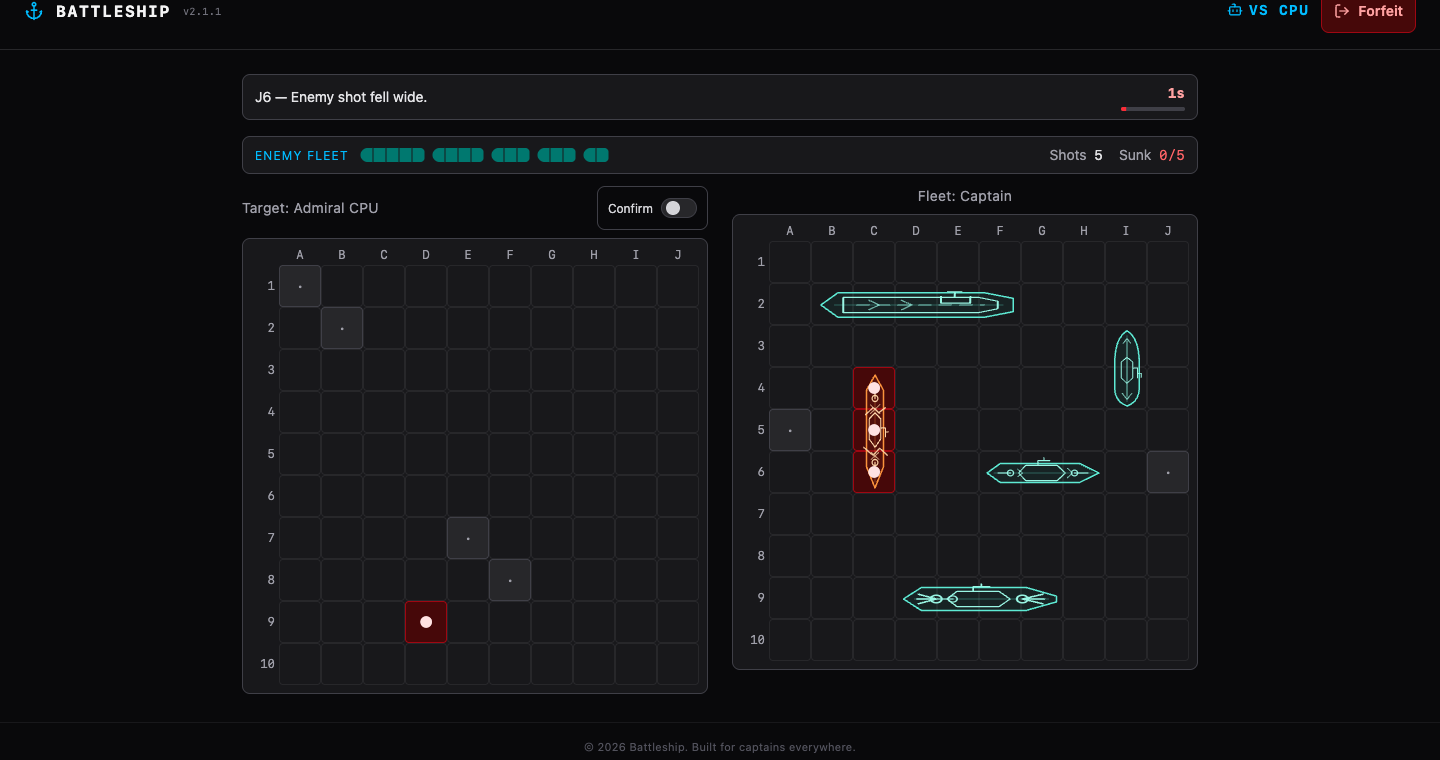
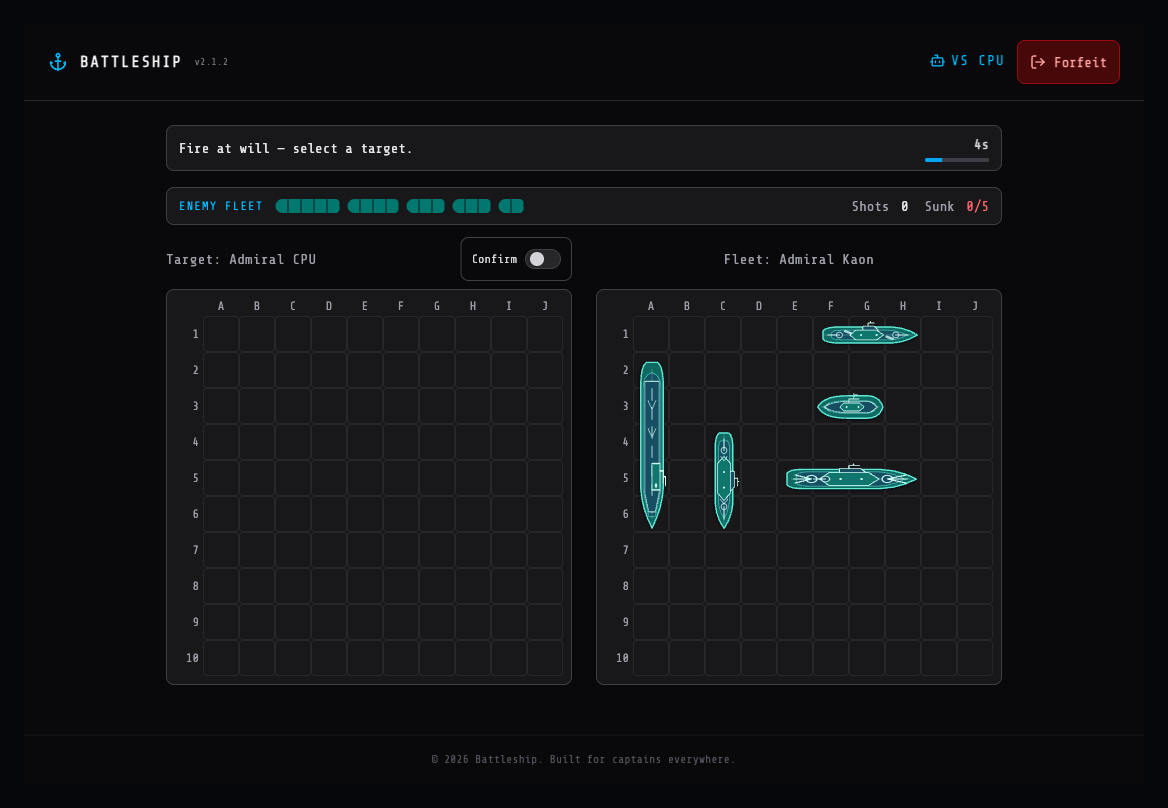
feat: refine fleet visuals for v2.1.2

diff --git a/src/components/ShipArtwork.tsx b/src/components/ShipArtwork.tsx
@@ -12,12 +12,19 @@ interface ShipArtworkProps {
   style?: CSSProperties
 }
 
-const PALETTES: Record<ShipVisualState, { line: string; surface: string; detail: string }> = {
-  afloat: { line: '#5eead4', surface: '#134e4a', detail: '#99f6e4' },
-  damaged: { line: '#fb7185', surface: '#7f1d1d', detail: '#fecdd3' },
-  sunk: { line: '#fb923c', surface: '#7c2d12', detail: '#fed7aa' },
-  preview: { line: '#67e8f9', surface: '#155e75', detail: '#cffafe' },
-  invalid: { line: '#f87171', surface: '#991b1b', detail: '#fee2e2' },
+interface ShipPalette {
+  line: string
+  hull: string
+  deck: string
+  detail: string
+}
+
+const PALETTES: Record<ShipVisualState, ShipPalette> = {
+  afloat: { line: '#5eead4', hull: '#0f766e', deck: '#164e63', detail: '#ccfbf1' },
+  damaged: { line: '#fb7185', hull: '#9f1239', deck: '#7f1d1d', detail: '#ffe4e6' },
+  sunk: { line: '#fb923c', hull: '#9a3412', deck: '#7c2d12', detail: '#ffedd5' },
+  preview: { line: '#67e8f9', hull: '#0e7490', deck: '#155e75', detail: '#cffafe' },
+  invalid: { line: '#f87171', hull: '#b91c1c', deck: '#7f1d1d', detail: '#fee2e2' },
 }
 
 const LINE_PROPS = {
@@ -27,32 +34,44 @@ const LINE_PROPS = {
 }
 
 function hullPath(shipId: string): string {
-  if (shipId === 'carrier') return 'M4 20 14 7H99L116 13V27L99 33H14Z'
-  if (shipId === 'battleship') return 'M4 20 17 8H94L116 17V23L94 32H17Z'
-  if (shipId === 'cruiser') return 'M5 20 18 10H96L115 20 96 30H18Z'
-  if (shipId === 'destroyer') return 'M5 20 20 11H95L116 20 95 29H20Z'
-  return 'M4 20C13 10 31 7 56 7h34c14 0 23 5 27 13-4 8-13 13-27 13H56C31 33 13 30 4 20Z'
+  if (shipId === 'carrier') return 'M5 13Q7 7 18 6h73q13 1 27 14-14 13-27 14H18Q7 33 5 27Z'
+  if (shipId === 'battleship') return 'M6 13Q8 8 19 8h67q17 1 31 12-14 11-31 12H19Q8 32 6 27Z'
+  if (shipId === 'cruiser') return 'M7 14q2-4 13-5h68q16 1 29 11-13 10-29 11H20Q9 30 7 26Z'
+  if (shipId === 'destroyer') return 'M8 15q2-4 14-5h66q16 1 29 10-13 9-29 10H22q-12-1-14-5Z'
+  return 'M3 20C12 9 31 6 56 6h35c15 0 24 6 27 14-3 8-12 14-27 14H56C31 34 12 31 3 20Z'
 }
 
-function ShipDetails({ shipId, color }: { shipId: string; color: string }) {
+function deckPath(shipId: string): string {
+  if (shipId === 'carrier') return 'M12 20Q14 9 22 9h70l18 7v8l-18 7H22q-8 0-10-11Z'
+  if (shipId === 'battleship') return 'M14 15q2-4 11-4h59q13 1 23 9-10 8-23 9H25q-9 0-11-4Z'
+  if (shipId === 'cruiser') return 'M16 16q2-3 11-3h57q12 1 21 7-9 7-21 7H27q-9 0-11-3Z'
+  if (shipId === 'destroyer') return 'M18 17q2-3 11-3h55q12 1 21 6-9 6-21 6H29q-9 0-11-3Z'
+  return 'M13 20c9-6 24-8 43-8h33c9 0 15 3 19 8-4 5-10 8-19 8H56c-19 0-34-2-43-8Z'
+}
+
+function ShipDetails({ shipId, palette }: { shipId: string; palette: ShipPalette }) {
   if (shipId === 'carrier') {
     return (
-      <g fill="none" stroke={color} strokeWidth="1.15" {...LINE_PROPS}>
-        <path d="M17 12H96l11 4v8l-11 4H17Z" />
-        <path d="M25 20H99" strokeDasharray="7 5" strokeOpacity=".7" />
-        <path d="M74 11v7h17v-7M82 11V6M78 6h8" />
-        <path d="m32 15 6 5-6 5M51 15l6 5-6 5" strokeOpacity=".65" />
+      <g {...LINE_PROPS}>
+        <path d="M18 11H94l13 5v8l-13 5H18Z" fill={palette.deck} stroke={palette.detail} strokeOpacity=".8" strokeWidth=".9" />
+        <path d="M23 20H99" fill="none" stroke={palette.detail} strokeWidth="1" strokeDasharray="8 5" strokeOpacity=".8" />
+        <path d="m31 15 6 5-6 5M50 15l6 5-6 5" fill="none" stroke={palette.detail} strokeWidth="1" strokeOpacity=".65" />
+        <path d="M74 10h18v10H74Z" fill={palette.hull} stroke={palette.detail} strokeWidth="1" />
+        <path d="M79 10V6h8M83 6V3M83 3h6" fill="none" stroke={palette.detail} strokeWidth="1.2" />
+        <circle cx="89" cy="15" r="1.5" fill={palette.detail} />
       </g>
     )
   }
 
   if (shipId === 'submarine') {
     return (
-      <g fill="none" stroke={color} strokeWidth="1.2" {...LINE_PROPS}>
-        <path d="M20 20h82" strokeOpacity=".55" />
-        <path d="M51 14h24l8 6-8 6H51l-7-6Z" />
-        <path d="M60 14V9h15M68 9V5M68 5h6" />
-        <path d="m23 16-7 4 7 4M98 15l9 5-9 5" strokeOpacity=".75" />
+      <g {...LINE_PROPS}>
+        <path d="M15 20c10-5 24-7 42-7h31c9 0 16 2 21 7-5 5-12 7-21 7H57c-18 0-32-2-42-7Z" fill={palette.deck} stroke={palette.detail} strokeOpacity=".8" strokeWidth=".9" />
+        <path d="M49 15h28l8 5-8 5H49l-7-5Z" fill={palette.hull} stroke={palette.detail} strokeWidth="1" />
+        <path d="M58 15v-5h18M67 10V5h7M67 5v-2" fill="none" stroke={palette.detail} strokeWidth="1.2" />
+        <path d="m24 15-9 5 9 5M97 14l11 6-11 6" fill="none" stroke={palette.detail} strokeWidth="1" strokeOpacity=".8" />
+        <circle cx="54" cy="20" r="1.35" fill={palette.detail} />
+        <circle cx="75" cy="20" r="1.35" fill={palette.detail} />
       </g>
     )
   }
@@ -61,26 +80,45 @@ function ShipDetails({ shipId, color }: { shipId: string; color: string }) {
   const isDestroyer = shipId === 'destroyer'
   const isCruiser = shipId === 'cruiser'
   return (
-    <g fill="none" stroke={color} {...LINE_PROPS}>
+    <g {...LINE_PROPS}>
       <path
-        d={isDestroyer ? 'M48 14h20l8 6-8 6H48l-6-6Z' : 'M43 12h31l8 8-8 8H43l-7-8Z'}
-        strokeWidth="1.15"
+        d={isDestroyer ? 'M46 14h24l8 6-8 6H46l-7-6Z' : 'M42 12h34l9 8-9 8H42l-8-8Z'}
+        fill={palette.hull}
+        stroke={palette.detail}
+        strokeWidth="1"
       />
-      <path d={isDestroyer ? 'M57 14V9h9M61 9V6' : 'M55 12V7h12M61 7V4'} strokeWidth="1.2" />
-      <g strokeWidth={isBattleship ? '1.6' : '1.25'}>
-        <circle cx="28" cy="20" r={isBattleship ? '4' : '3'} />
-        <path d={isBattleship ? 'M28 20 15 15M28 20H14M28 20 15 25' : 'M28 20H16'} />
-        <circle cx="91" cy="20" r={isBattleship ? '4' : '3'} />
-        <path d={isBattleship ? 'M91 20 106 15M91 20h16M91 20l15 5' : 'M91 20h13'} />
+      <path
+        d={isDestroyer ? 'M54 14V9h13l5 5Z' : 'M51 12V7h18l5 5Z'}
+        fill={palette.deck}
+        stroke={palette.detail}
+        strokeWidth="1"
+      />
+      <path d={isDestroyer ? 'M60 9V5h7M63 5V3' : 'M59 7V3h9M63 3V1'} fill="none" stroke={palette.detail} strokeWidth="1.15" />
+      <g fill={palette.deck} stroke={palette.detail} strokeWidth={isBattleship ? '1.25' : '1'}>
+        <circle cx="27" cy="20" r={isBattleship ? '4.5' : '3.5'} />
+        <circle cx="92" cy="20" r={isBattleship ? '4.5' : '3.5'} />
+      </g>
+      <g fill="none" stroke={palette.detail} strokeWidth={isBattleship ? '1.45' : '1.2'}>
+        <path d={isBattleship ? 'M27 20 13 15M27 20H12M27 20 13 25' : 'M27 20H14'} />
+        <path d={isBattleship ? 'M92 20 108 15M92 20h17M92 20l16 5' : 'M92 20h14'} />
       </g>
       {isBattleship && (
-        <g strokeWidth="1.25">
-          <circle cx="40" cy="20" r="3.25" />
-          <path d="M40 20H29" />
+        <g>
+          <circle cx="39" cy="20" r="3.5" fill={palette.deck} stroke={palette.detail} strokeWidth="1" />
+          <path d="M39 20H29" fill="none" stroke={palette.detail} strokeWidth="1.25" />
         </g>
       )}
-      {isCruiser && <path d="m84 15 5 5-5 5M35 16l5 4-5 4" strokeWidth="1" strokeOpacity=".75" />}
-      {isDestroyer && <path d="m34 15 9 10M43 15l-9 10M81 16l7 8M88 16l-7 8" strokeWidth="1" strokeOpacity=".7" />}
+      {isCruiser && (
+        <path d="m83 15 6 5-6 5M34 16l5 4-5 4" fill="none" stroke={palette.detail} strokeWidth="1" strokeOpacity=".8" />
+      )}
+      {isDestroyer && (
+        <g fill={palette.detail} opacity=".8">
+          <rect x="32" y="15" width="10" height="3" rx="1" transform="rotate(22 37 16.5)" />
+          <rect x="80" y="22" width="10" height="3" rx="1" transform="rotate(22 85 23.5)" />
+        </g>
+      )}
+      <circle cx="52" cy="20" r="1.2" fill={palette.detail} />
+      <circle cx="70" cy="20" r="1.2" fill={palette.detail} />
     </g>
   )
 }
@@ -93,20 +131,30 @@ export const ShipArtwork = memo(function ShipArtwork({ shipId, state = 'afloat',
       aria-hidden="true"
       viewBox="0 0 120 40"
       preserveAspectRatio="none"
-      className={cn('overflow-visible', className)}
+      className={cn('overflow-visible drop-shadow-[0_1px_1px_rgba(0,0,0,0.5)]', className)}
       style={style}
     >
+      <path d={hullPath(shipId)} fill="#020617" fillOpacity=".42" transform="translate(0 2)" />
       <path
         d={hullPath(shipId)}
-        fill={palette.surface}
-        fillOpacity={state === 'preview' ? '.3' : '.2'}
+        fill={palette.hull}
+        fillOpacity={state === 'preview' ? '.72' : '.88'}
         stroke={palette.line}
-        strokeWidth="1.5"
+        strokeWidth="1.4"
         strokeDasharray={state === 'invalid' ? '4 3' : undefined}
         {...LINE_PROPS}
       />
-      <path d="M12 20h98" stroke={palette.line} strokeOpacity=".32" strokeWidth="1" {...LINE_PROPS} />
-      <ShipDetails shipId={shipId} color={palette.detail} />
+      <path
+        d={deckPath(shipId)}
+        fill={palette.deck}
+        fillOpacity={state === 'preview' ? '.68' : '.92'}
+        stroke={palette.line}
+        strokeOpacity=".65"
+        strokeWidth=".8"
+        {...LINE_PROPS}
+      />
+      <path d="M10 20h101" stroke={palette.detail} strokeOpacity=".3" strokeWidth=".8" {...LINE_PROPS} />
+      <ShipDetails shipId={shipId} palette={palette} />
       {(state === 'damaged' || state === 'sunk') && (
         <g fill="none" stroke={palette.detail} strokeWidth="1.35" strokeOpacity=".9" {...LINE_PROPS}>
           <path d="m37 9 5 7-5 6 7 8" />

diff --git a/src/components/GameOverOverlay.tsx b/src/components/GameOverOverlay.tsx
@@ -3,6 +3,8 @@ import type { MouseEvent } from 'react'
 import type { GameResultState } from '../shared/types'
 import { Button } from './ui/button'
 
+const AUTO_DISMISS_MS = 12_000
+
 function Confetti() {
   const ref = useRef<HTMLCanvasElement | null>(null)
 
@@ -104,7 +106,7 @@ export default function GameOverOverlay({ result, onDismiss }: GameOverOverlayPr
   const isWin = result === 'win'
 
   useEffect(() => {
-    const t = setTimeout(onDismiss, 7000)
+    const t = setTimeout(onDismiss, AUTO_DISMISS_MS)
     return () => clearTimeout(t)
   }, [onDismiss])
 
@@ -139,9 +141,8 @@ export default function GameOverOverlay({ result, onDismiss }: GameOverOverlayPr
           />
         )}
 
-        <div className="card relative z-10 text-center select-none px-8 py-8 sm:px-12 sm:py-10 rounded-2xl mx-4"
+        <div className="card relative z-10 mx-4 select-none px-8 py-8 text-center sm:px-12 sm:py-10"
           onClick={(event: MouseEvent<HTMLDivElement>) => event.stopPropagation()}
-          style={{ background: isWin ? 'rgba(0,0,0,0.45)' : 'rgba(15,20,30,0.7)', backdropFilter: 'blur(8px)' }}
         >
           <div className="text-7xl sm:text-8xl mb-4 sm:mb-5" style={{ lineHeight: 1 }}>
             {isWin
@@ -151,12 +152,12 @@ export default function GameOverOverlay({ result, onDismiss }: GameOverOverlayPr
           </div>
 
           {isWin ? (
-            <div id="battle-result-title" className="gold text-4xl sm:text-5xl font-black tracking-widest text-yellow-400">
-              V I C T O R Y
+            <div id="battle-result-title" className="gold font-mono text-4xl font-normal tracking-[0.32em] text-yellow-400 sm:text-5xl">
+              VICTORY
             </div>
           ) : (
-            <div id="battle-result-title" className="text-4xl sm:text-5xl font-black tracking-widest text-zinc-300">
-              D E F E A T
+            <div id="battle-result-title" className="font-mono text-4xl font-normal tracking-[0.32em] text-zinc-300 sm:text-5xl">
+              DEFEAT
             </div>
           )}
 
@@ -164,7 +165,7 @@ export default function GameOverOverlay({ result, onDismiss }: GameOverOverlayPr
             autoFocus
             onClick={onDismiss}
             variant="outline"
-            className="mt-6 bg-zinc-900/80 tracking-widest"
+            className="mt-6 bg-zinc-900/80 font-mono font-normal tracking-widest"
           >
             Continue
           </Button>

diff --git a/src/pages/RoomPage.tsx b/src/pages/RoomPage.tsx
@@ -1,5 +1,5 @@
 import { useCallback, useEffect, useRef, useState } from 'react'
-import { Anchor, Bot, Copy, LogOut, RotateCcw, Share2 } from 'lucide-react'
+import { Anchor, Bot, CircleAlert, Copy, LogOut, RotateCcw, Share2 } from 'lucide-react'
 import { useNavigate, useParams } from 'react-router-dom'
 import { getSocket } from '../lib/socket'
 import type { GameSocket } from '../lib/socket'
@@ -396,11 +396,13 @@ export default function RoomPage() {
   if (fatalError) {
     return (
       <main className="flex min-h-screen items-center justify-center bg-zinc-950 px-4 text-zinc-100">
-        <div className="w-full max-w-sm rounded-xl border border-red-900 bg-zinc-900 p-6 text-center">
-          <div className="mb-3 text-4xl" aria-hidden="true">⚓</div>
+        <div className="w-full max-w-sm rounded-xl border border-zinc-800 bg-zinc-900/90 p-6 text-center shadow-2xl shadow-black/20">
+          <div className="mx-auto mb-4 flex size-12 items-center justify-center rounded-full border border-red-900/60 bg-red-950/30 text-red-300">
+            <CircleAlert className="size-6" aria-hidden="true" />
+          </div>
           <h1 className="text-lg font-bold">Unable to join battle</h1>
           <p role="alert" className="mt-2 text-sm text-zinc-300">{fatalError}</p>
-          <Button onClick={() => navigate('/')} className="mt-5 w-full">
+          <Button onClick={() => navigate('/')} variant="outline" className="mt-5 w-full border-zinc-600 bg-transparent">
             Back to Lobby
           </Button>
         </div>

diff --git a/src/components/Board.tsx b/src/components/Board.tsx
@@ -184,14 +184,14 @@ function Board({
 
   return (
     <section className="board-section w-full max-w-full overflow-x-auto pb-1 text-center">
-      {label && (headerAction ? (
-        <div className="mx-auto mb-2 flex w-full max-w-[30rem] items-center justify-between gap-3">
-          <h2 className="min-w-0 truncate text-sm tracking-wide text-zinc-400">{label}</h2>
+      {label && (
+        <div className={`mx-auto mb-2 flex min-h-11 w-full max-w-[30rem] items-center gap-3 ${headerAction ? 'justify-between' : 'justify-center'}`}>
+          <h2 className={`text-sm tracking-wide text-zinc-400 ${headerAction ? 'min-w-0 truncate text-left' : 'text-center'}`}>
+            {label}
+          </h2>
           {headerAction}
         </div>
-      ) : (
-        <h2 className="mb-2 text-center text-sm tracking-wide text-zinc-400">{label}</h2>
-      ))}
+      )}
       <div
         className={`board-shell inline-block p-1.5 sm:p-2 bg-zinc-900 border border-zinc-700 rounded-lg ${isShaking ? 'shake-board' : ''}`}
         onMouseLeave={onBoardLeave}

diff --git a/src/styles/globals.css b/src/styles/globals.css
@@ -1,8 +1,8 @@
 @import "tailwindcss";
 
 @theme {
-  --font-sans: ui-sans-serif, system-ui, -apple-system, BlinkMacSystemFont, "Segoe UI", sans-serif;
-  --font-mono: "SFMono-Regular", Consolas, "Liberation Mono", monospace;
+  --font-sans: "Share Tech Mono", "SFMono-Regular", Consolas, "Liberation Mono", monospace;
+  --font-mono: "Share Tech Mono", "SFMono-Regular", Consolas, "Liberation Mono", monospace;
 }
 
 html {
@@ -11,6 +11,7 @@ html {
 
 body {
   margin: 0;
+  font-family: var(--font-sans);
 }
 
 button, input {

diff --git a/index.html b/index.html
@@ -7,7 +7,7 @@
     <link rel="preconnect" href="https://fonts.googleapis.com" />
     <link rel="preconnect" href="https://fonts.gstatic.com" crossorigin />
     <link href="https://fonts.googleapis.com/css2?family=Share+Tech+Mono&display=swap" rel="stylesheet" />
-    <link rel="icon" type="image/svg+xml" href="/favicon.svg" />
+    <link rel="icon" type="image/svg+xml" href="/favicon.svg?v=2.1.2" />
     <title>⚓ Battleship</title>
   </head>
   <body>

diff --git a/README.md b/README.md
@@ -4,9 +4,9 @@ A fast, responsive fleet action against a friend or a computer captain.
 
 Sound general quarters, deploy your fleet in secret, and trade fire across enemy waters. Find and sink every opposing ship before your own fleet is sent to the bottom.
 
-**[Play Battleship](https://battleship.yahaha.net)** · Current release `v2.1.1`
+**[Play Battleship](https://battleship.yahaha.net)** · Current release `v2.1.2`
 
-![Battleship v2.1.1 battle showing tactical line-art ships, target grid, and naval command interface](docs/images/battleship-gameplay.png)
+![Battleship v2.1.2 battle showing detailed overhead ships, target grid, and naval command interface](docs/images/battleship-gameplay.png)
 
 ## Start a battle
 
@@ -37,7 +37,7 @@ The first captain to sink all five enemy ships wins.
 | Destroyer | 3 cells |
 | Submarine | 2 cells |
 
-Ships can be placed horizontally or vertically, but they cannot overlap or extend beyond the grid. Each class has its own tactical line silhouette, so your fleet stays readable at a glance. Use **Random** when you want to deploy a full fleet instantly.
+Ships can be placed horizontally or vertically, but they cannot overlap or extend beyond the grid. Each class has its own detailed overhead silhouette, so your fleet stays readable at a glance. Use **Random** when you want to deploy a full fleet instantly.
 
 ## Battle pace
 
